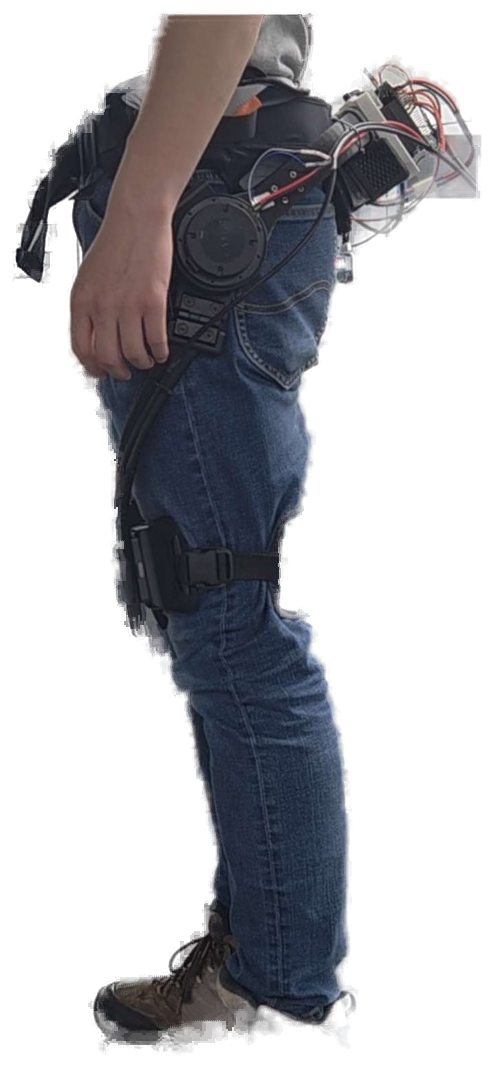
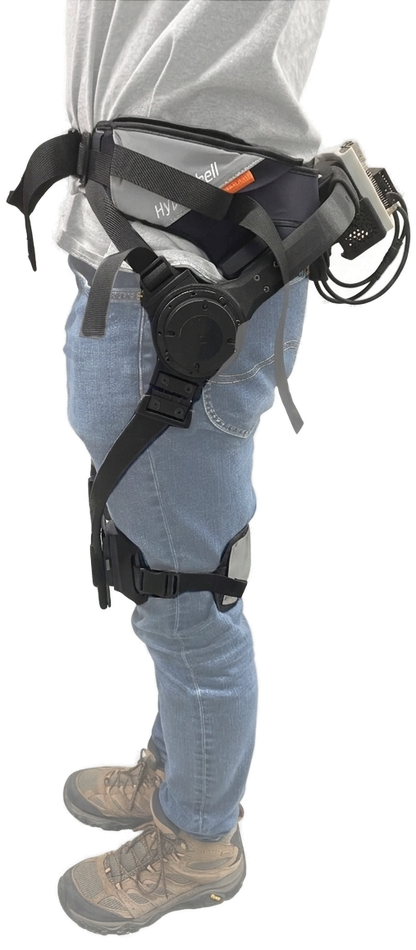
v0.3 Project Cover Update Completed

diff --git a/css/style.css b/css/style.css
@@ -398,65 +398,105 @@ footer.site-foot{ padding:2.5rem 0 3.5rem; }
 .gen-cover{ display:flex; flex-wrap:wrap; align-items:stretch; overflow:hidden; }
 
 .gen-cover-ribbon-col{
-  position:relative; z-index:1; order:1; flex:0 0 42%; min-width:260px;
+  position:relative; z-index:1; order:1; flex:0 0 32%; min-width:260px;
   min-height:clamp(640px,58vw,820px);
-  margin: 0 0 0 clamp(1.2rem,3vw,1.8rem);
   background:transparent;
+  /* no rem-based margin here anymore -- the 10%-of-block outer margin is
+     produced by the inset on ::before below, so it scales as a true
+     percentage instead of a fixed/clamped rem gap. Column widened from
+     30% to 32% (margin held at 10%, ribbon grew from 20% to 22%) so
+     "Mark III" clears the band with real room instead of a ~3px margin. */
 }
 .gen-cover.reverse .gen-cover-ribbon-col{
   order:2;
-  margin: 0 clamp(1.2rem,3vw,1.8rem) 0 0;
 }
 .gen-cover.reverse .gen-cover-content-col{ order:1; }
 
-/* the actual maroon ribbon: a narrower vertical band inset within the
-   ribbon column, running the column's full height (top and bottom of the
-   ribbon column itself, not just the middle — no margin left the ribbon
-   short there) — flush against the edge facing the content column (no
-   gap between the ribbon and the bullet text) and inset only on the
-   outer edge, so the column still reads as a narrower object without
-   leaving a parchment strip next to the text. */
+/* the actual maroon ribbon: inset 31.25% within this 30%-of-block column,
+   which works out to exactly 10% margin + 20% solid ribbon as a share of
+   the whole block. Flush against the edge facing the content column (no
+   gap between the ribbon and the bullet text), inset only on the outer
+   edge. A flat (non-animated) black-to-transparent fade is layered under
+   the maroon at that same outer edge for a little depth/roundedness --
+   not a gradient standing in for the margin, the margin is real empty
+   space; this fade lives entirely inside the solid ribbon itself. */
 .gen-cover-ribbon-col::before{
   content:''; position:absolute; z-index:0; top:0; bottom:0;
-  left:16%; right:0;
-  background:var(--maroon);
+  left:31.25%; right:0;
+  background:
+    linear-gradient(to right, rgba(0,0,0,.3), rgba(0,0,0,0) 22%),
+    var(--maroon);
 }
 .gen-cover.reverse .gen-cover-ribbon-col::before{
-  left:0; right:16%;
+  left:0; right:31.25%;
+  background:
+    linear-gradient(to left, rgba(0,0,0,.3), rgba(0,0,0,0) 22%),
+    var(--maroon);
 }
 
-/* photo zone spans the full column (wider than the ribbon band itself) so
-   the cutout can bleed past the band on both sides */
+/* photo zone spans the full column so the cutout can bleed past the band.
+   Bleeds toward the column's OUTER edge (into the reserved margin), not
+   into the text column -- the margin is there on purpose so the photo has
+   somewhere to break the rectangle into without crowding the bullet text. */
 .gen-cover-photo-zone{ position:absolute; inset:0; z-index:1; }
 .gen-cover-photo{
-  position:absolute; left:50%; top:0; height:100%;
-  width:150%; max-width:none;
+  /* left:65.625% (not 50%) centers the image on the RIBBON's own midpoint,
+     not the column's -- the ribbon is inset within the column (31.25% to
+     100%), so its center sits right of the column's center. Only a small
+     extra shift (clamp below) then bleeds it toward the margin, instead
+     of the image being dragged off-center by a big shift like before. */
+  position:absolute; left:65.625%; top:0; height:88%;
+  /* wide enough (240%) that HEIGHT is always the binding constraint for
+     object-fit:contain, even for the near-square Gen 2 photo -- that's
+     what actually guarantees all three render at the same height. At
+     150% the square photo used to hit the width ceiling first and come
+     out visibly shorter than the narrow Gen 1/3 crops. */
+  width:240%; max-width:none;
   object-fit:contain; object-position:bottom center; z-index:2;
-  /* shifted down + toward the column's outer edge so the hardware itself
-     (not headroom above it) lands in the ribbon's visible band, and the
-     top of the ribbon stays clear maroon behind the title — no scrim
-     needed. Overflow past the bottom is cropped by .gen-fold. */
-  transform:translate(calc(-50% - clamp(20px,5vw,55px)), clamp(210px,22vw,300px));
+  /* shifted down + toward the column's OUTER edge (the margin), so the
+     hardware bleeds into the reserved margin space and the top of the
+     ribbon stays clear maroon behind the title. Sized a bit smaller than
+     the column (88% height) on purpose, so there's slack to shift into
+     without either fully swallowing the margin or crossing into the
+     content column. */
+  transform:translate(calc(-50% - clamp(6px,1.2vw,16px)), clamp(150px,16vw,240px));
   filter:drop-shadow(0 10px 18px rgba(20,10,8,.4));
 }
 .gen-cover.reverse .gen-cover-photo{
-  transform:translate(calc(-50% + clamp(20px,5vw,55px)), clamp(210px,22vw,300px));
+  /* reverse (Mark II) untouched: still anchored at the column's 50%, with
+     the larger clamp(15-35px) bleed -- only Marks I/III were asked to
+     re-center on the ribbon. */
+  left:50%;
+  transform:translate(calc(-50% + clamp(15px,3vw,35px)), clamp(150px,16vw,240px));
 }
 
 /* title sits directly on the solid ribbon band — no photo behind it once
-   the photo is shifted down, so no scrim/gradient needed */
+   the photo is shifted down, so no scrim/gradient needed. Bounds updated
+   to match the new 31.25%-inset ribbon band exactly (still just tracking
+   the ribbon's own edges, not a position/style change to the title itself). */
 .gen-cover-ribbon-top{
-  position:absolute; z-index:3; top:0; left:16%; right:0;
+  position:absolute; z-index:3; top:0; left:31.25%; right:0;
   display:flex; flex-direction:column; align-items:center; text-align:center;
   padding:clamp(1.6rem,3.4vw,2.1rem) .7rem 1.1rem;
 }
-.gen-cover.reverse .gen-cover-ribbon-top{ left:0; right:16%; }
+.gen-cover.reverse .gen-cover-ribbon-top{ left:0; right:31.25%; }
 .gen-cover-mark{
-  font-family:var(--font-display); font-weight:700; font-size:clamp(2.2rem,5vw,3.3rem);
+  /* pushed as large as it can go while "Mark III" (the longest title)
+     still fits the ribbon's actual measured width on a single line --
+     values below are fit to real DOM measurements at two viewport widths
+     (700px and 1300px), not eyeballed, with a small safety margin so font
+     rendering variance doesn't tip it into wrapping. Same rule, all three. */
+  font-family:var(--font-display); font-weight:700;
+  font-size:clamp(2.3125rem, calc(-0.207rem + 4.6875vw), 3.25rem);
   color:#fff; letter-spacing:.03em; text-shadow:0 2px 12px rgba(0,0,0,.55);
+  white-space:nowrap;
 }
 .gen-cover-mark-sub{
-  font-family:var(--font-mono); font-size:clamp(.98rem,2.3vw,1.15rem); letter-spacing:.04em; color:rgba(247,241,225,.92);
+  /* same approach: as large as possible while the longest subtitle ("The
+     Reverse-Engineered Conversion") still holds at two lines. */
+  font-family:var(--font-mono);
+  font-size:clamp(.69375rem, calc(-0.055rem + 1.2609vw), .875rem);
+  letter-spacing:.04em; color:rgba(247,241,225,.92);
   margin-top:.6rem; max-width:24ch; line-height:1.4; text-shadow:0 1px 8px rgba(0,0,0,.5);
 }
 
@@ -516,6 +556,12 @@ footer.site-foot{ padding:2.5rem 0 3.5rem; }
     overflow:hidden;
   }
   .gen-cover-content-col, .gen-cover.reverse .gen-cover-content-col{ order:2; flex:1 1 100%; }
+  /* the 31.25% inset reads as margin+ribbon side-by-side against the
+     content column on desktop; stacked full-width on mobile there's no
+     content column beside it to react against, so the same inset just
+     reads as a lopsided blank strip. Full-bleed the ribbon here instead. */
+  .gen-cover-ribbon-col::before, .gen-cover.reverse .gen-cover-ribbon-col::before{ left:0; right:0; }
+  .gen-cover-ribbon-top, .gen-cover.reverse .gen-cover-ribbon-top{ left:0; right:0; }
 }
 
 .gen-fold-body{ padding:clamp(1.6rem,4vw,2.4rem); border-top:1px dashed var(--line-strong); }
